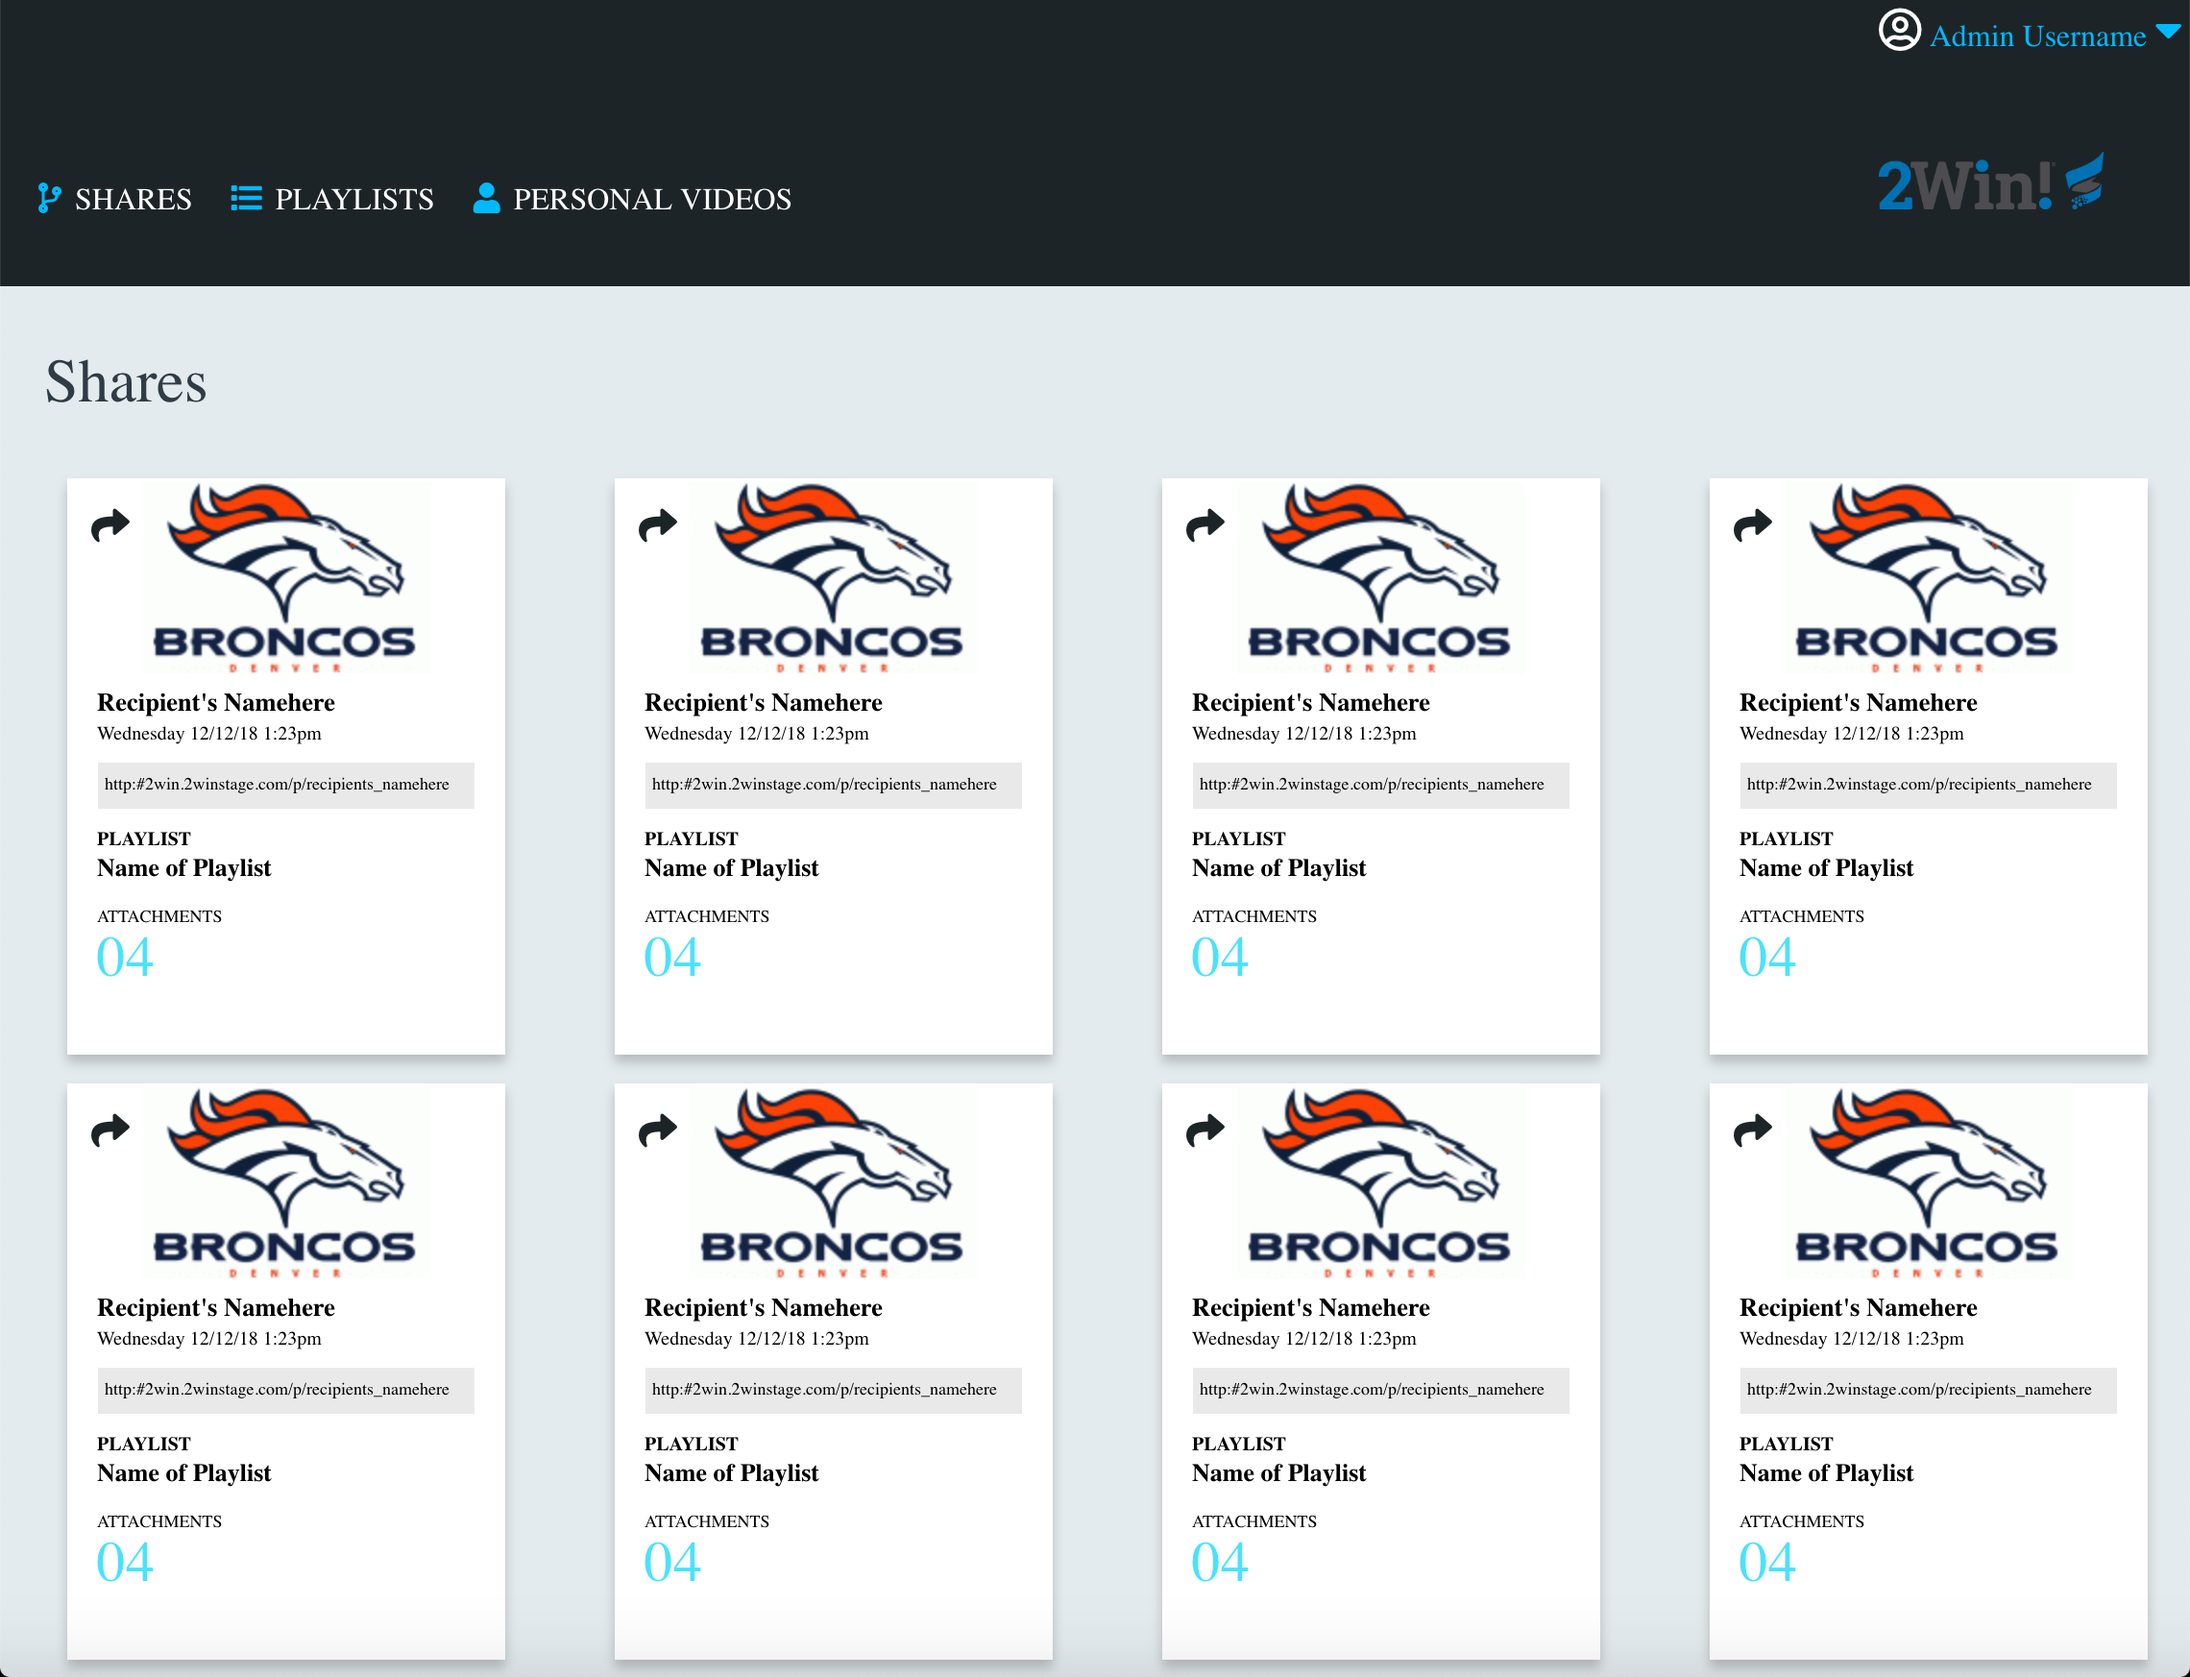
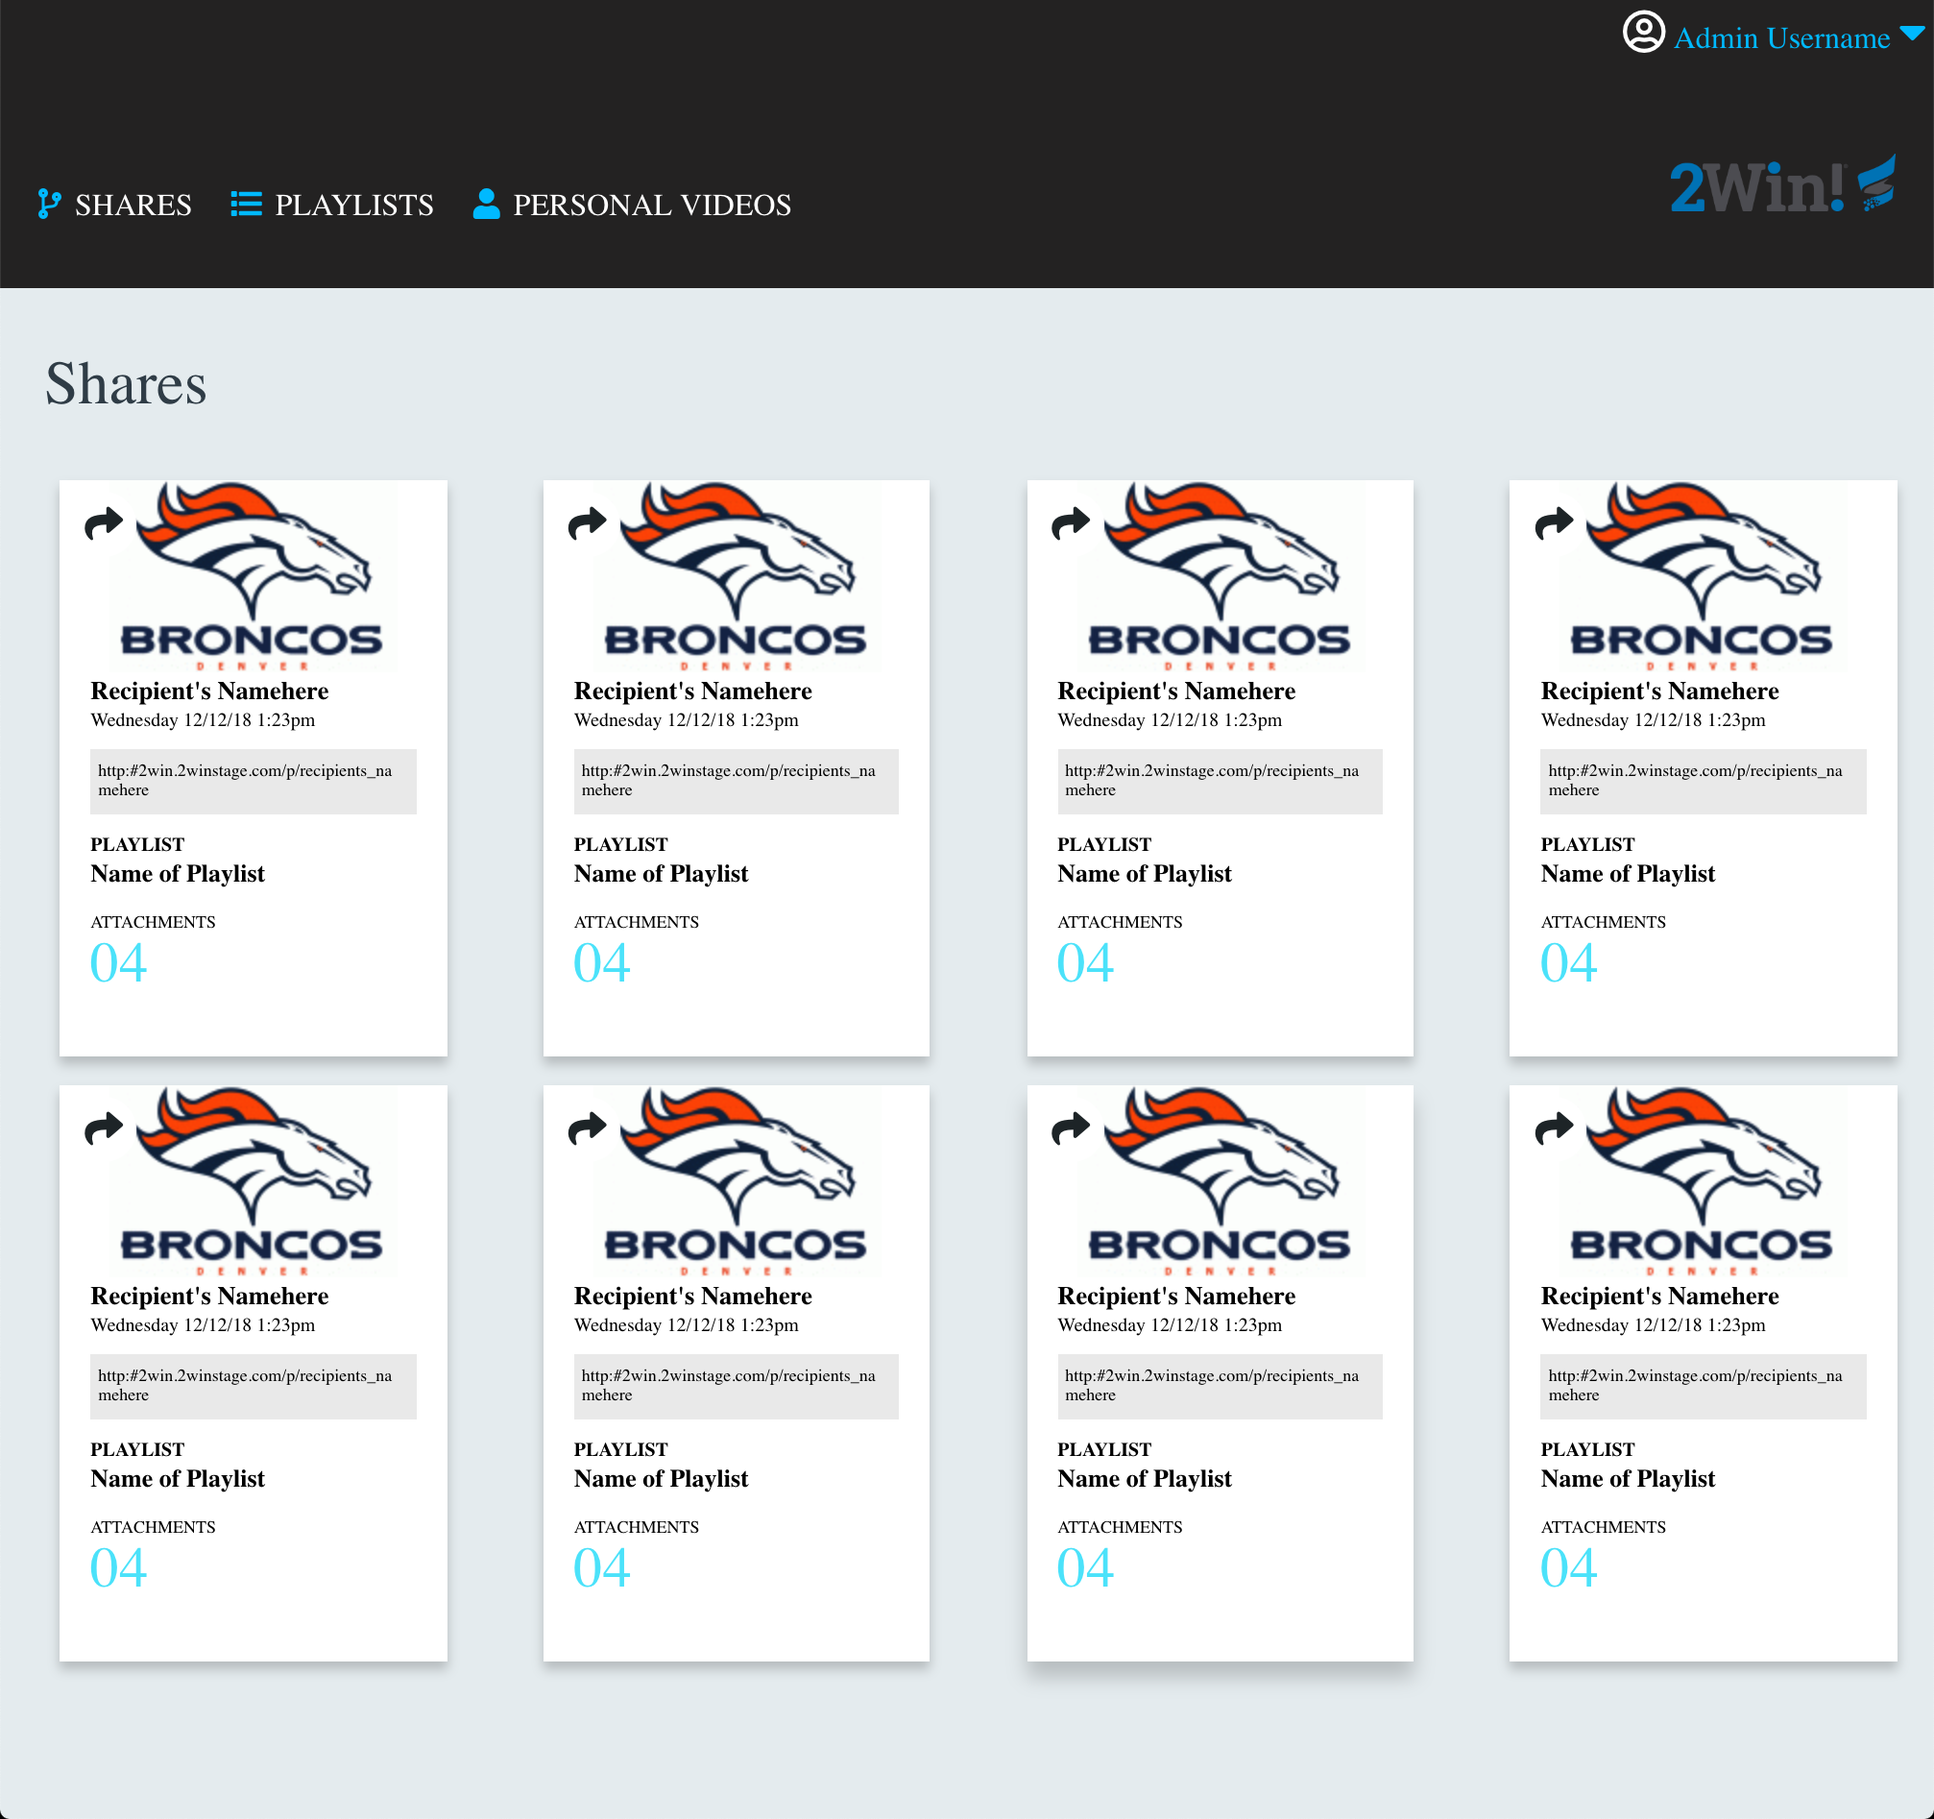
updated README

diff --git a/styles.css b/styles.css
@@ -15,7 +15,7 @@ p {
 
 header {
   height: 150px;
-  background-color: #20292C;
+  background-color: #272626;
   display: flex;
   justify-content: space-between;
 }
@@ -52,7 +52,7 @@ h5 {
   display: flex;
   align-items: flex-end;
   margin-left: 20px;
-  margin-bottom: 15px;
+  margin-bottom: 13px;
 }
 
 .admin-header {
@@ -100,6 +100,9 @@ h5 {
 
 .win-logo {
   height: 30px;
+  position: absolute;
+  top: 40px;
+  right: 10px;
 }
 
 .card-container {

diff --git a/README.md b/README.md
@@ -5,3 +5,11 @@
 #### Overview
 The second week of the front end program at Turing required recreating a web design and also having it be responsive.  Having complimentary colors and designing all the html with css was good on hands practice to getting repetition in as well as learning new css properties and how they worked.
 With time, the html and css code and actual page will keep improving, but constantly learning and practicing is great for making progress to become a better developer.
+
+#### Screenshots
+Recreated Static Comp
+![Recreated Static Comp](
+
+
+Original Static Comp
+![Original](static-comp-challenge-1.jpg)
